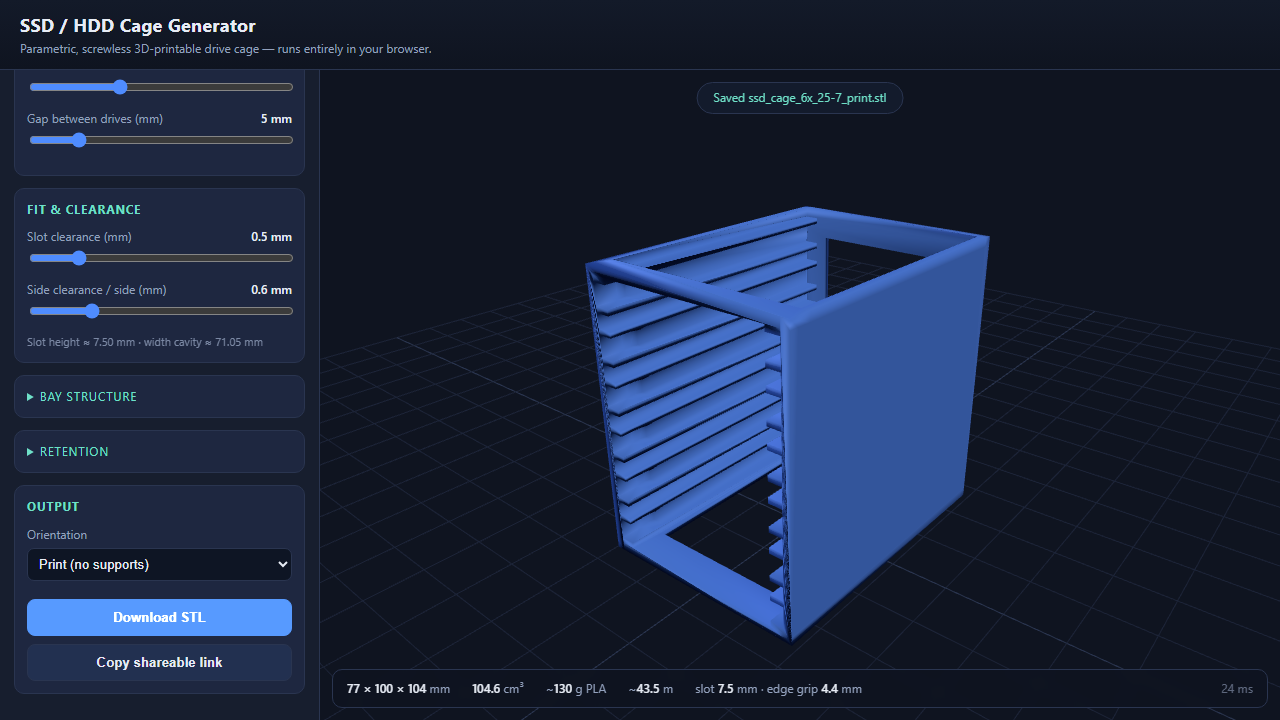
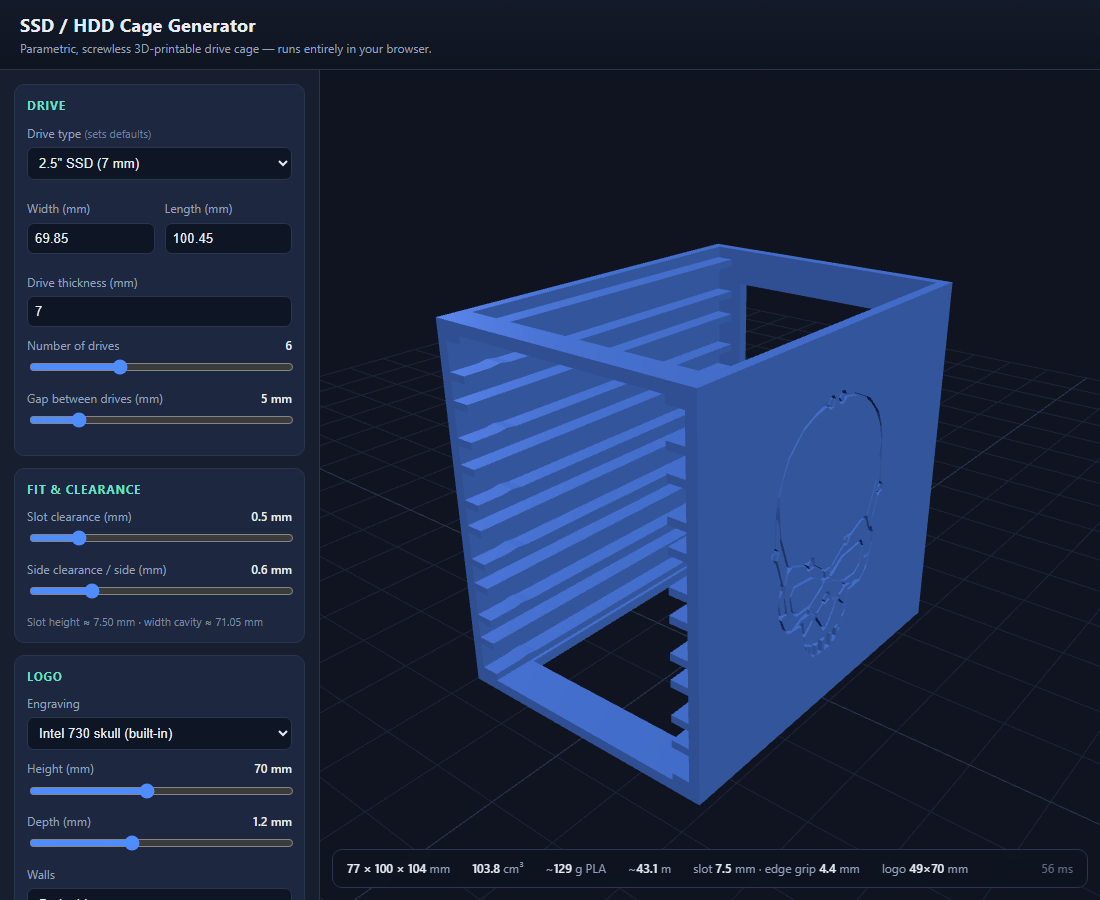
better rendering / skull

diff --git a/src/main.js b/src/main.js
@@ -2,15 +2,21 @@ import Module from 'manifold-3d';
 import { makeBuilder } from './geometry.js';
 import { meshToBinarySTL } from './stl.js';
 import { createViewer } from './viewer.js';
+import { builtinSkull, traceImage } from './logo.js';
 import { DRIVE_PRESETS, DEFAULTS, DEVICE_FIELDS } from './presets.js';
 
 const $ = (id) => document.getElementById(id);
 const CONTROLS = ['preset', 'driveW', 'driveL', 'driveH', 'nDrives', 'gap',
   'slotClr', 'sideClr', 'wallT', 'railDepth', 'railT', 'baseT', 'backT', 'topCap',
-  'bumps', 'bumpH', 'bumpHalf', 'bumpYc', 'baseVent', 'backWindow'];
-const RANGE_OUT = { nDrives: '', gap: ' mm', slotClr: ' mm', sideClr: ' mm', bumpH: ' mm' };
+  'bumps', 'bumpH', 'bumpHalf', 'bumpYc',
+  'logoMode', 'logoThreshold', 'logoScale', 'logoDepth', 'logoWalls',
+  'baseVent', 'backWindow'];
+const RANGE_OUT = {
+  nDrives: '', gap: ' mm', slotClr: ' mm', sideClr: ' mm', bumpH: ' mm',
+  logoScale: ' mm', logoDepth: ' mm', logoThreshold: '',
+};
 
-let build = null, viewer = null, currentMesh = null;
+let build = null, viewer = null, currentMesh = null, tracedLogo = null;
 const state = { ...DEFAULTS };
 
 for (const [k, v] of Object.entries(DRIVE_PRESETS)) {
@@ -38,6 +44,11 @@ function applyStateToInputs() {
     else el.value = state[k];
   }
   updateOutputs();
+  updateLogoVisibility();
+}
+function updateLogoVisibility() {
+  $('customLogo').hidden = state.logoMode !== 'custom';
+  $('logoOpts').hidden = state.logoMode === 'none';
 }
 function updateOutputs() {
   for (const [k, unit] of Object.entries(RANGE_OUT)) {
@@ -67,7 +78,14 @@ function applyPreset(key) {
   applyStateToInputs();
 }
 
+function currentLogo() {
+  if (state.logoMode === 'skull') return builtinSkull();
+  if (state.logoMode === 'custom' && tracedLogo) return tracedLogo;
+  return null;
+}
+
 function paramsFromState() {
+  const logo = currentLogo();
   return {
     driveW: +state.driveW, driveL: +state.driveL, driveH: +state.driveH,
     nDrives: Math.max(1, Math.round(state.nDrives)), gap: +state.gap,
@@ -75,6 +93,7 @@ function paramsFromState() {
     wallT: +state.wallT, railDepth: +state.railDepth, railT: +state.railT,
     baseT: +state.baseT, backT: +state.backT, topCap: +state.topCap,
     bumps: !!state.bumps, bumpH: +state.bumpH, bumpHalf: +state.bumpHalf, bumpYc: +state.bumpYc,
+    logo: logo ? { polygons: logo.polygons, depth: +state.logoDepth, targetH: +state.logoScale, walls: state.logoWalls } : null,
     baseVent: !!state.baseVent, backWindow: !!state.backWindow,
     orientation: 'print',   // always export print-ready (no supports)
   };
@@ -117,13 +136,30 @@ function renderStats(s, ms) {
     `<span>~<b>${s.grams.toFixed(0)}</b> g PLA</span>` +
     `<span>~<b>${s.filamentM.toFixed(1)}</b> m</span>` +
     `<span>slot <b>${s.slotH.toFixed(1)}</b> mm · edge grip <b>${s.engagement.toFixed(1)}</b> mm</span>` +
+    (s.logo ? `<span>logo <b>${s.logo.width.toFixed(0)}×${s.logo.height.toFixed(0)}</b> mm</span>` : '') +
     `<span style="margin-left:auto;opacity:.6">${ms.toFixed(0)} ms</span>`;
+}
+
+async function retrace() {
+  const f = $('logoFile').files[0];
+  if (!f) return;
+  status('Tracing image…');
+  try {
+    tracedLogo = await traceImage(f, +state.logoThreshold);
+    status('Traced ✓');
+    regenerate();
+  } catch (e) {
+    tracedLogo = null;
+    status(e.message, true);
+  }
 }
 
 // ---- events ----
 function onInput(e) {
   if (e.target.id === 'preset') { applyPreset(e.target.value); }
   else { readInputs(); updateOutputs(); }
+  if (e.target.id === 'logoMode') updateLogoVisibility();
+  if (e.target.id === 'logoThreshold' && state.logoMode === 'custom') { retrace(); return; }
   location.replace('#' + encodeState());
   scheduleRegen();
 }
@@ -140,6 +176,7 @@ async function boot() {
   status('');
 
   for (const k of CONTROLS) $(k)?.addEventListener('input', onInput);
+  $('logoFile').addEventListener('change', retrace);
   $('btnExport').addEventListener('click', exportSTL);
   $('btnShare').addEventListener('click', share);
   regenerate();

diff --git a/src/geometry.js b/src/geometry.js
@@ -17,13 +17,31 @@ export function makeBuilder(wasm) {
     return Manifold.cube([sx, sy, sz], false).translate([x0, y0, z0]);
   };
 
-  // Extrude a (u,v) triangle by `depth`, orient so u->Y, v->Z, depth->X, shift X.
-  // Used for the ramped friction bumps.
+  // Extrude (u,v) contours by `depth`, orient so u->Y, v->Z, depth->X, shift X.
+  // Used for the ramped friction bumps and the engraved logo.
   const placeExtruded = (contours, depth, xStart) => {
     const cs = new CrossSection(contours, 'EvenOdd');
     const ex = cs.extrude(depth).rotate([90, 0, 90]).translate([xStart, 0, 0]);
     cs.delete();
     return ex;
+  };
+
+  // Scale + centre logo polygons to a target height; return contours in (u,v).
+  const prepLogo = (polygons, targetH, cx, cy) => {
+    let minX = Infinity, minY = Infinity, maxX = -Infinity, maxY = -Infinity;
+    for (const rings of polygons)
+      for (const ring of rings)
+        for (const [x, y] of ring) {
+          if (x < minX) minX = x; if (x > maxX) maxX = x;
+          if (y < minY) minY = y; if (y > maxY) maxY = y;
+        }
+    const s = targetH / (maxY - minY);
+    const ox = (minX + maxX) / 2, oy = (minY + maxY) / 2;
+    const contours = [];
+    for (const rings of polygons)
+      for (const ring of rings)
+        contours.push(ring.map(([x, y]) => [(x - ox) * s + cx, (y - oy) * s + cy]));
+    return { contours, width: (maxX - minX) * s, height: (maxY - minY) * s };
   };
 
   return function build(p) {
@@ -95,6 +113,26 @@ export function makeBuilder(wasm) {
       add(box(Math.min(xa, xb), Math.max(xa, xb), Y_FRONT, Y_BACK1, TOP_STACK, TOTAL_H));
     }
 
+    // engraved line-art logo on the side walls
+    let logoInfo = null;
+    if (p.logo && p.logo.polygons && p.logo.polygons.length) {
+      const availH = TOTAL_H * 0.9, availW = Y_DRIVE_BK * 0.9;
+      let targetH = Math.min(p.logo.targetH, availH);
+      const cx = Y_DRIVE_BK / 2, cy = TOTAL_H / 2;
+      let prep = prepLogo(p.logo.polygons, targetH, cx, cy);
+      if (prep.width > availW) {                     // keep it inside the wall
+        targetH *= availW / prep.width;
+        prep = prepLogo(p.logo.polygons, targetH, cx, cy);
+      }
+      logoInfo = { width: prep.width, height: prep.height };
+      const walls = p.logo.walls || 'both';
+      const sides = walls === 'both' ? [1, -1] : walls === 'left' ? [-1] : [1];
+      for (const s of sides) {
+        const xStart = s > 0 ? OUTER_X - p.logo.depth : -OUTER_X - 0.1;
+        cut(placeExtruded(prep.contours, p.logo.depth + 0.1, xStart));
+      }
+    }
+
     // boolean assembly
     let solid = Manifold.union(pos);
     if (neg.length) {
@@ -126,6 +164,7 @@ export function makeBuilder(wasm) {
       stats: {
         size, volCm3, grams, filamentM, slotH: SLOT_H,
         engagement: p.driveW / 2 - (INNER_X - p.railDepth),
+        logo: logoInfo,
       },
     };
   };

diff --git a/src/logo.js b/src/logo.js
@@ -1,0 +1,72 @@
+import { contours } from 'd3-contour';
+import skull from './assets/intel_skull.json';
+
+export function builtinSkull() {
+  return { polygons: skull.polygons, name: skull.name };
+}
+
+// Ramer–Douglas–Peucker simplification of a ring.
+function rdp(points, eps) {
+  if (points.length < 3) return points;
+  let dmax = 0, idx = 0;
+  const [ax, ay] = points[0], [bx, by] = points[points.length - 1];
+  const dx = bx - ax, dy = by - ay, len = Math.hypot(dx, dy) || 1;
+  for (let i = 1; i < points.length - 1; i++) {
+    const [px, py] = points[i];
+    const d = Math.abs((px - ax) * dy - (py - ay) * dx) / len;
+    if (d > dmax) { dmax = d; idx = i; }
+  }
+  if (dmax > eps) {
+    const left = rdp(points.slice(0, idx + 1), eps);
+    const right = rdp(points.slice(idx), eps);
+    return left.slice(0, -1).concat(right);
+  }
+  return [points[0], points[points.length - 1]];
+}
+
+// Trace an uploaded image into stroke polygons (dark pixels -> engraving).
+export async function traceImage(file, threshold = 120) {
+  const url = URL.createObjectURL(file);
+  try {
+    const img = await new Promise((res, rej) => {
+      const im = new Image();
+      im.onload = () => res(im);
+      im.onerror = rej;
+      im.src = url;
+    });
+    // downscale for a manageable contour
+    const maxDim = 260;
+    const scale = Math.min(1, maxDim / Math.max(img.width, img.height));
+    const w = Math.max(2, Math.round(img.width * scale));
+    const h = Math.max(2, Math.round(img.height * scale));
+    const cv = document.createElement('canvas');
+    cv.width = w; cv.height = h;
+    const ctx = cv.getContext('2d', { willReadFrequently: true });
+    ctx.drawImage(img, 0, 0, w, h);
+    const data = ctx.getImageData(0, 0, w, h).data;
+
+    // darkness field (0..255); transparent pixels treated as light
+    const dark = new Float64Array(w * h);
+    for (let i = 0; i < w * h; i++) {
+      const a = data[i * 4 + 3] / 255;
+      const g = 0.299 * data[i * 4] + 0.587 * data[i * 4 + 1] + 0.114 * data[i * 4 + 2];
+      dark[i] = a * (255 - g);
+    }
+
+    const geo = contours().size([w, h]).thresholds([threshold])(dark);
+    if (!geo.length || !geo[0].coordinates.length)
+      throw new Error('No shapes found at this threshold — try lowering it.');
+
+    // GeoJSON MultiPolygon -> our polygons; flip Y so up is positive, simplify
+    const polygons = [];
+    for (const poly of geo[0].coordinates) {
+      const rings = poly.map(ring => rdp(ring.map(([x, y]) => [x, h - y]), 0.8))
+                        .filter(r => r.length >= 4);
+      if (rings.length) polygons.push(rings);
+    }
+    if (!polygons.length) throw new Error('Traced shape was empty.');
+    return { polygons, name: file.name };
+  } finally {
+    URL.revokeObjectURL(url);
+  }
+}

diff --git a/index.html b/index.html
@@ -45,6 +45,40 @@
         <p class="note" id="slotNote"></p>
       </section>
 
+      <section>
+        <h2>Logo</h2>
+        <label>Engraving
+          <select id="logoMode">
+            <option value="none">None</option>
+            <option value="skull">Intel 730 skull (built-in)</option>
+            <option value="custom">Upload image…</option>
+          </select>
+        </label>
+        <div id="customLogo" hidden>
+          <label>Image file
+            <input type="file" id="logoFile" accept="image/*" />
+          </label>
+          <label>Trace threshold <output id="logoThresholdOut"></output>
+            <input type="range" id="logoThreshold" min="20" max="240" step="5" value="120" />
+          </label>
+        </div>
+        <div id="logoOpts" hidden>
+          <label>Height (mm) <output id="logoScaleOut"></output>
+            <input type="range" id="logoScale" min="15" max="140" step="1" />
+          </label>
+          <label>Depth (mm) <output id="logoDepthOut"></output>
+            <input type="range" id="logoDepth" min="0.4" max="2.5" step="0.1" />
+          </label>
+          <label>Walls
+            <select id="logoWalls">
+              <option value="both">Both sides</option>
+              <option value="left">Left only</option>
+              <option value="right">Right only</option>
+            </select>
+          </label>
+        </div>
+      </section>
+
       <details id="structure">
         <summary>Bay structure</summary>
         <div class="row">

diff --git a/src/viewer.js b/src/viewer.js
@@ -27,8 +27,11 @@ export function createViewer(container) {
   grid.position.y = -0.01;
   scene.add(grid);
 
+  // flat shading: hard-surface CAD model, so shade each triangle by its true
+  // geometric normal. Smooth (averaged) normals make the box triangulation
+  // show through as diagonal streaks fanning across the flat faces.
   const material = new THREE.MeshStandardMaterial({
-    color: 0x5b8ff0, metalness: 0.15, roughness: 0.55, flatShading: false,
+    color: 0x5b8ff0, metalness: 0.15, roughness: 0.55, flatShading: true,
   });
   let mesh = null;
 

diff --git a/src/presets.js b/src/presets.js
@@ -20,6 +20,8 @@ export const DEFAULTS = {
   wallT: 3.0, railDepth: 5.0, railT: 2.0, baseT: 3.0, backT: 3.0, topCap: 3.0,
   // retention
   bumps: true, bumpH: 0.4, bumpHalf: 3.0, bumpYc: 11.0,
+  // logo engraving (not device-specific)
+  logoMode: 'none', logoDepth: 1.2, logoScale: 70, logoWalls: 'both', logoThreshold: 120,
   // options
   baseVent: true, backWindow: true,
 };

diff --git a/README.md b/README.md
@@ -9,6 +9,7 @@ A parametric, screwless, 3D-printable drive-cage generator that runs **entirely 
 - **2.5" (7 / 9.5 / 15 mm) and 3.5"** drive presets (SFF maximum envelopes → guaranteed fit).
 - **1–16 bays**, adjustable air gap.
 - **Screwless friction retention** — C-channel rails capture each drive top & bottom, with ramped bumps near the mouth for grip.
+- **Logo engraving** on the side walls — a built-in Intel 730 skull, or upload any image (traced to line-art in the browser). Height, depth and which walls are adjustable.
 - **Everything is editable.** Selecting a drive type loads that device's defaults as a starting point; then every value stays adjustable — drive W/L/thickness, clearances, wall / rail / base / back / top thicknesses, retention bumps, vents.
 - **Live 3D preview** (three.js) + **binary STL export**, always in the no-support print orientation (stands on its back, slots print as vertical grooves).
 - Live **size / volume / filament** estimates.
